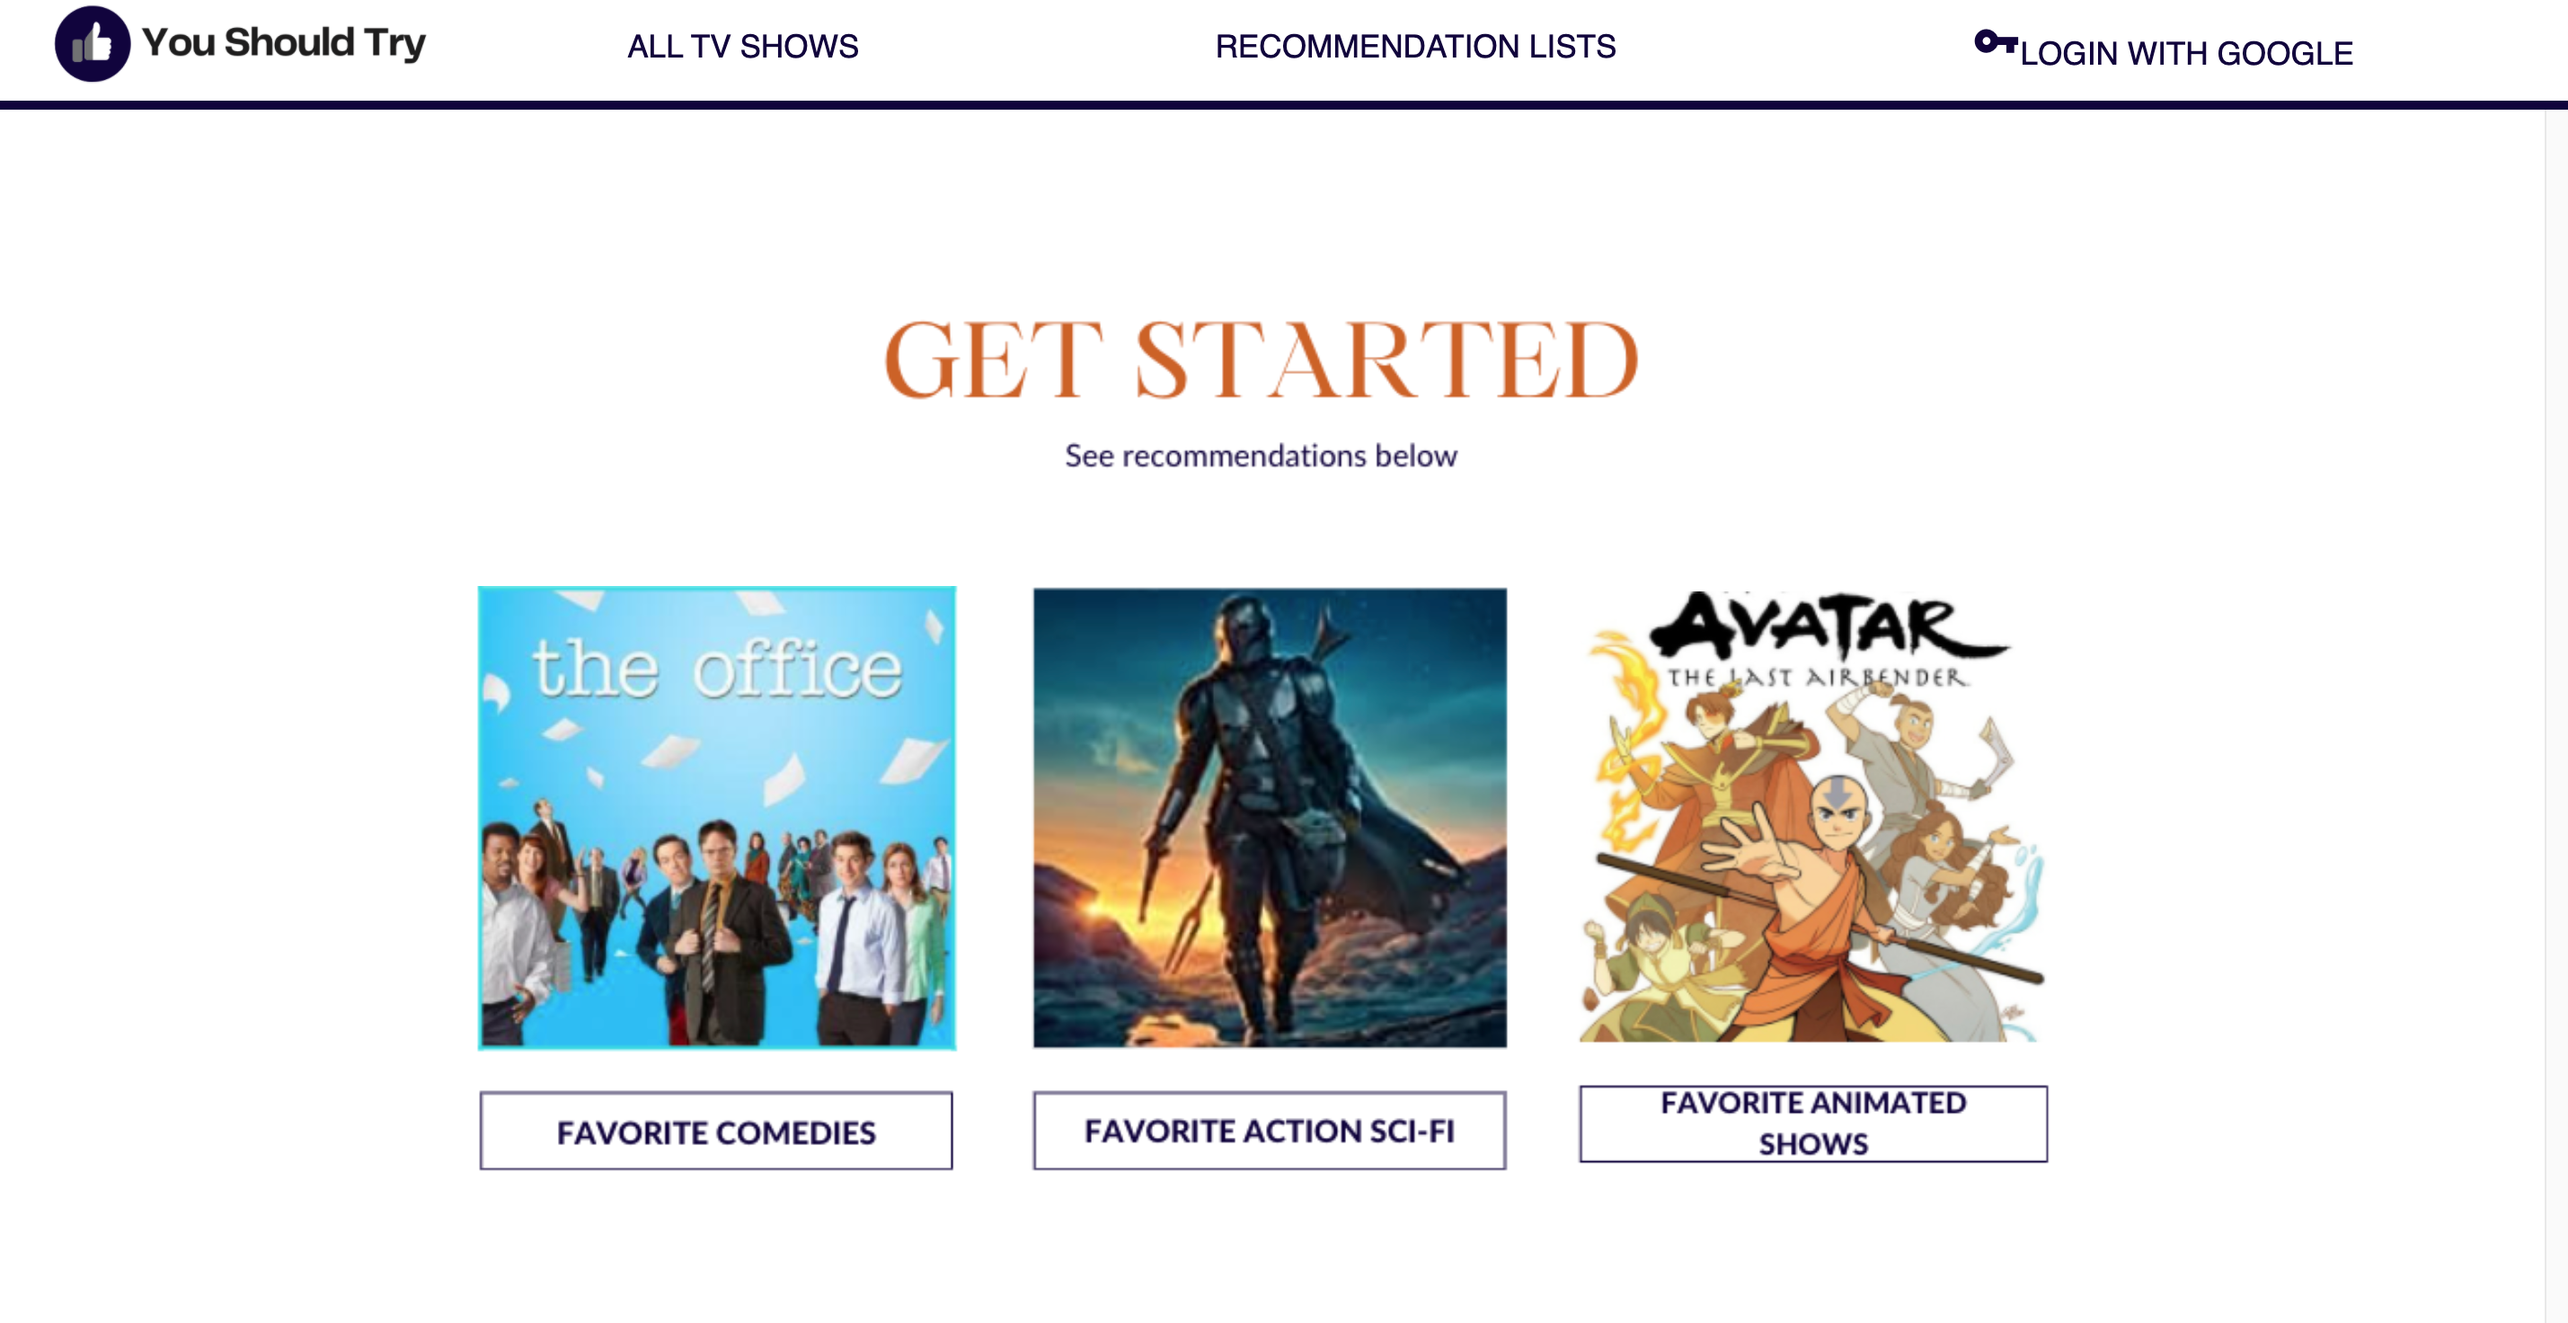
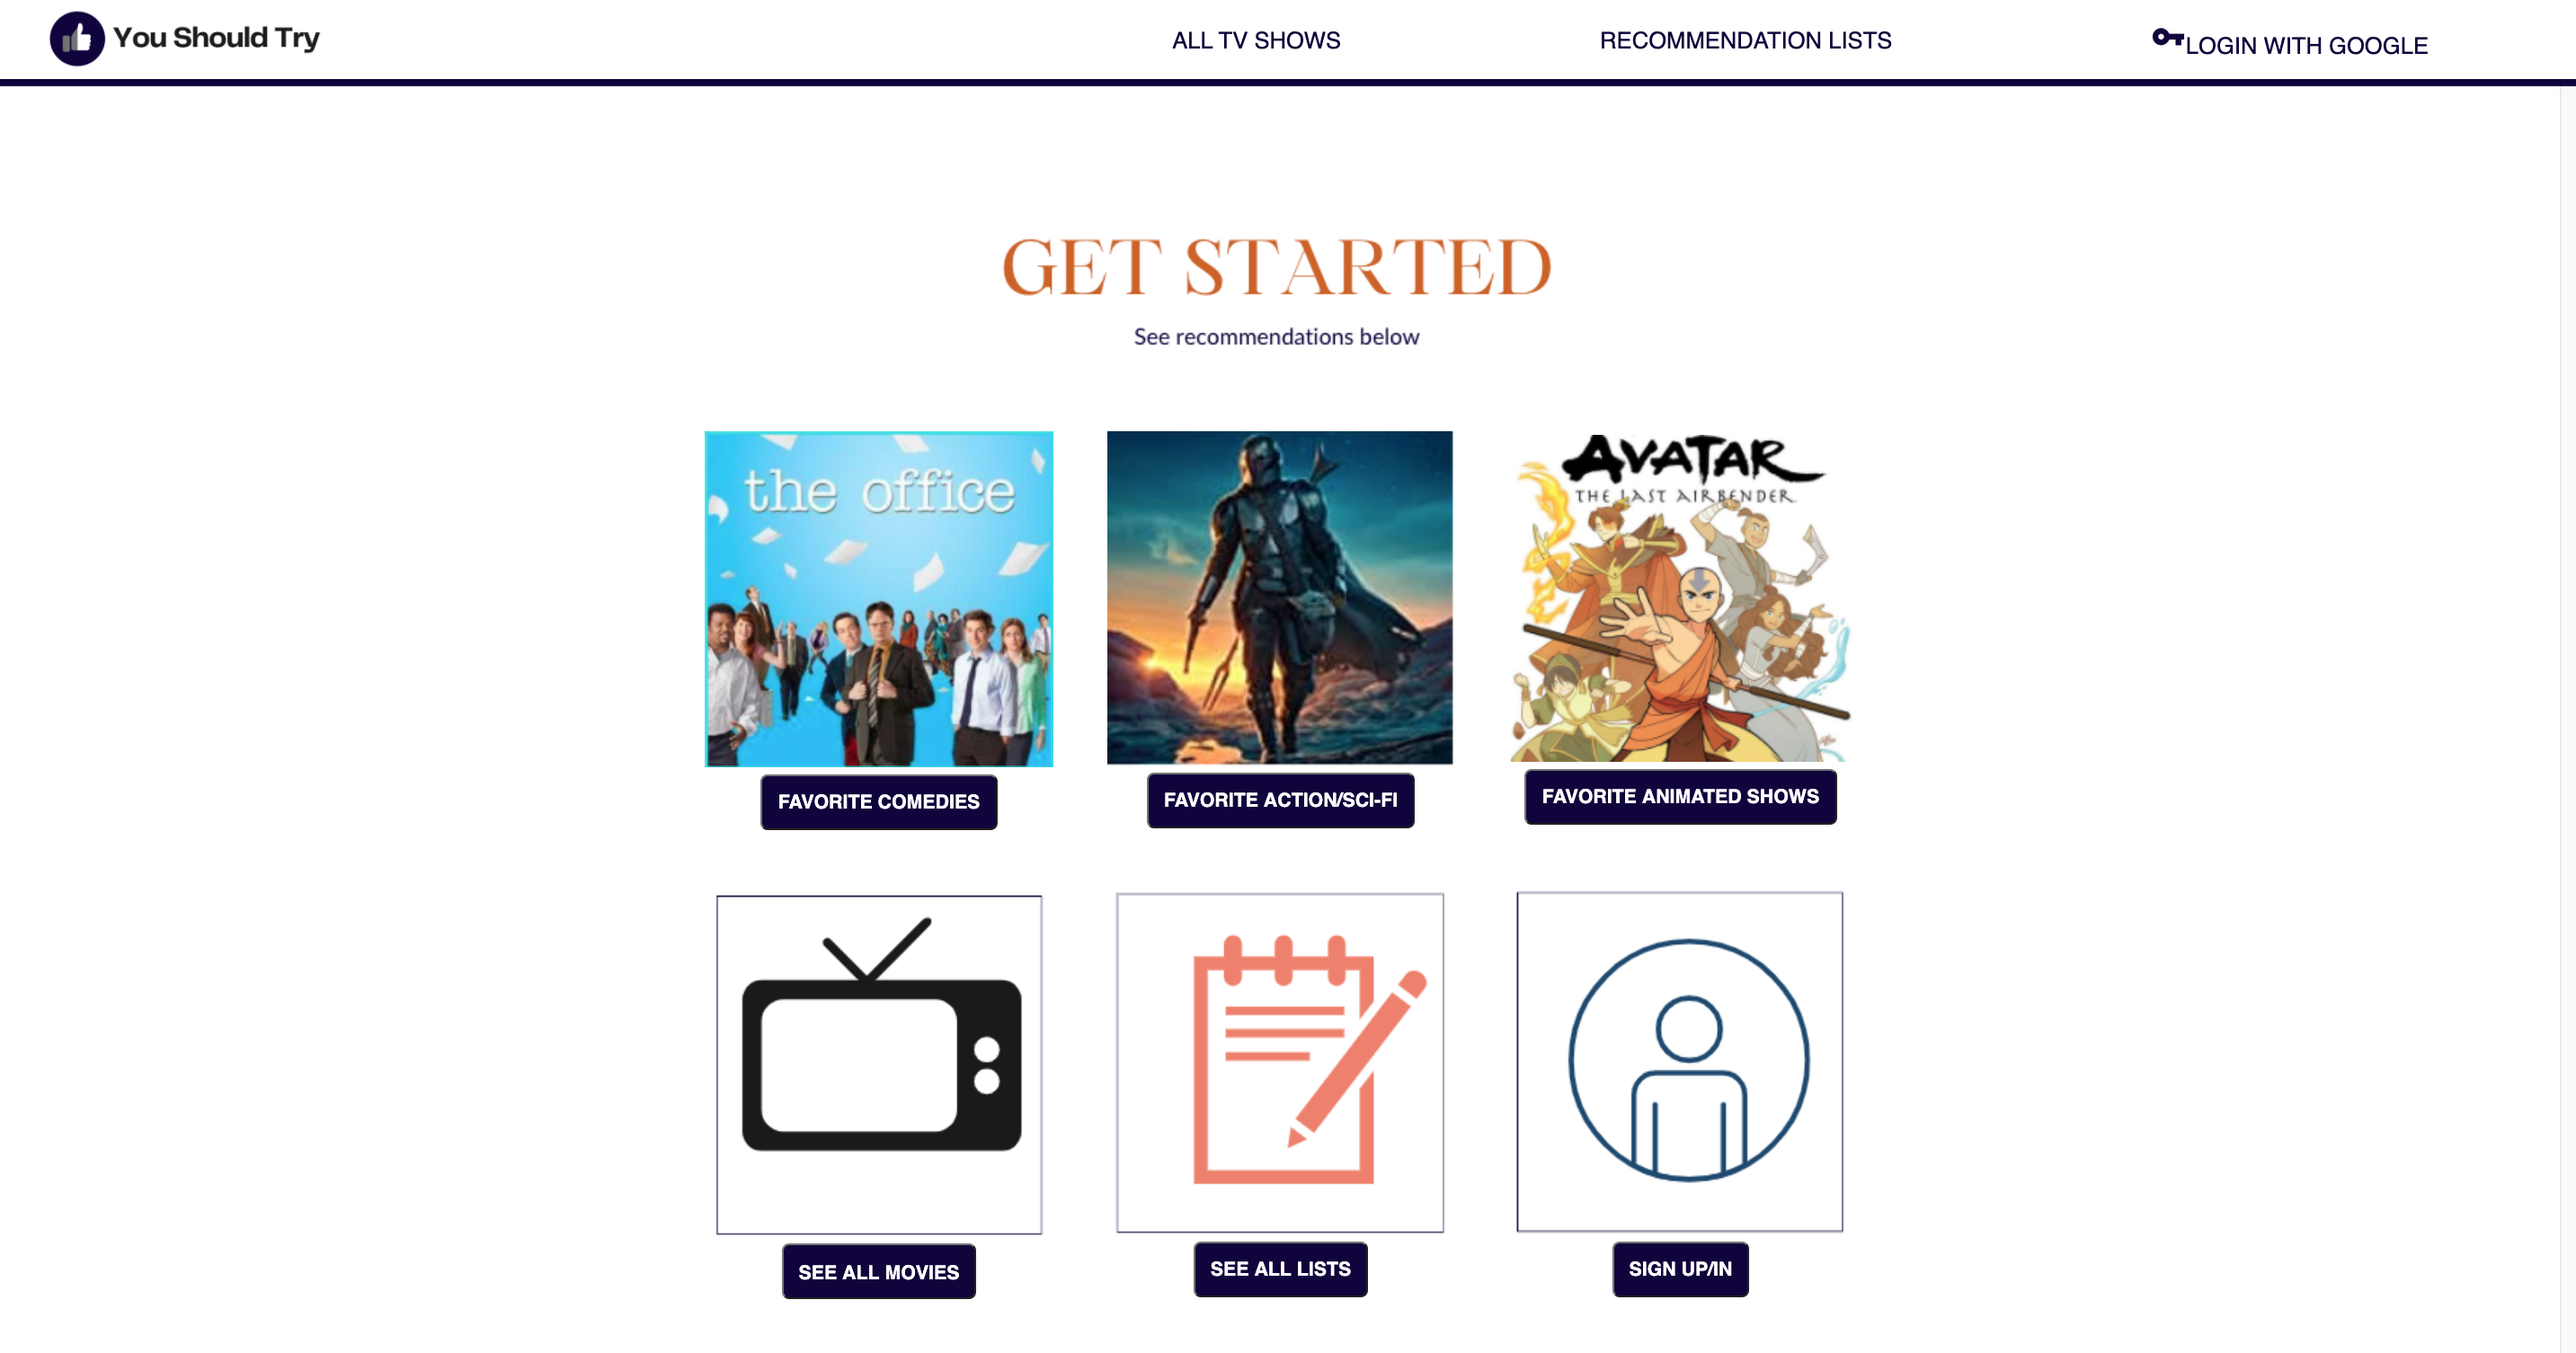
Code cleaned up, and index style updated

diff --git a/controllers/comments.js b/controllers/comments.js
@@ -21,36 +21,34 @@ function create(req, res) {
   }
 
   function update(req, res) {
-    // Note the cool "dot" syntax to query on the property of a subdoc
     Tvshow.findOne({'comments._id': req.params.id}, function(err, tvshow) {
-      // Find the comment subdoc using the id method on Mongoose arrays
+      // Finds the comment subdoc using the id method on Mongoose arrays
       // https://mongoosejs.com/docs/subdocs.html
       const commentSubdoc = tvshow.comments.id(req.params.id);
-      // Ensure that the comment was created by the logged in user
+      // Ensures that the comment was created by the logged in user
       if (!commentSubdoc.userId.equals(req.user._id)) return res.redirect(`/tvshows/${tvshow._id}`);
-      // Update the text of the comment
+      // Updates the text of the comment
       commentSubdoc.text = req.body.text;
-      // Save the updated book
+      // Saves the updated tv show
       tvshow.save(function(err) {
-        // Redirect back to the book's show view
+        // Redirects back to the tv show's show view
         res.redirect(`/tvshows/${tvshow._id}`);
       });
     });
   }
 
   function deleteOne(req, res) {
-    // Note the cool "dot" syntax to query on the property of a subdoc
     Tvshow.findOne({'comments._id': req.params.id}, function(err, tvshow) {
-      // Find the comment subdoc using the id method on Mongoose arrays
+      // Finds the comment subdoc using the id method on Mongoose arrays
       // https://mongoosejs.com/docs/subdocs.html
       const commentSubdoc = tvshow.comments.id(req.params.id);
-      // Ensure that the comment was created by the logged in user
+      // Ensures that the comment was created by the logged in user
       if (!commentSubdoc.userId.equals(req.user._id)) return res.redirect(`/tvshows/${tvshow._id}`);
-      // Remove the comment using the remove method of the subdoc
+      // Removes the comment using the remove method of the subdoc
       commentSubdoc.remove();
-      // Save the updated book
+      // Saves the updated tv show
       tvshow.save(function(err) {
-        // Redirect back to the book's show view
+        // Redirects back to the tv show's show view
         res.redirect(`/tvshows/${tvshow._id}`);
       });
     });
@@ -58,7 +56,7 @@ function create(req, res) {
 
   function edit(req, res) {
     Tvshow.findById(req.params.id, function(err, tvshow) {
-      // Verify book is "owned" by logged in user
+      // Verifies tv show is "owned" by logged in user
       if (!tvshow.user.equals(req.user._id)) return res.redirect(`/tvshows/${tvshow._id}`);
       res.render(`/tvshows/${tvshow._id}`);
     });

diff --git a/controllers/tvshows.js b/controllers/tvshows.js
@@ -11,13 +11,11 @@ module.exports = {
   edit,
   delete: deleteTvshow,
   update,
-  addWatching
 };
 
 function addToList(req, res) {
   TvshowRec.findById(req.params.id, function (err, tvshowrec) {
     tvshowrec.tvshows.push(req.body.tvshowId);
-    console.log('CHECK ME', req.body);
     tvshowrec.save(function (err) {
       res.redirect(`/tvshowrecs/${tvshowrec._id}`);
     });
@@ -26,11 +24,10 @@ function addToList(req, res) {
 
 function create(req, res) {
   const tvshow = new Tvshow(req.body);
-  // Assign the logged in user's id
+  // Assigns the logged in user's id
   tvshow.user = req.user._id;
   tvshow.save(function(err) {
     if (err) return render('tvshows/new');
-    // Probably want to go to newly added book's show view
     res.redirect(`/tvshows/${tvshow._id}`);
   });
 }
@@ -47,7 +44,6 @@ function newTvshow(req, res) {
 function show(req, res) {
   Tvshow.findById(req.params.id, function(err, tvshow) {
     TvshowRec.find({}, function(err, tvshowrecs){
-      console.log(tvshow);
       res.render('tvshows/show', { title: `${tvshow.title}`, tvshow, tvshowrecs });
     })   
   });
@@ -61,7 +57,7 @@ function index(req, res) {
 
 function edit(req, res) {
   Tvshow.findById(req.params.id, function(err, tvshow) {
-    // Verify book is "owned" by logged in user
+    // Verifies that tv show is "owned" by logged in user
     if (!tvshow.user.equals(req.user._id)) return res.redirect(`/tvshows/${tvshow._id}`);
     res.render(`tvshows/edit`, { title: 'Edit Show', tvshow});
   });
@@ -70,9 +66,9 @@ function edit(req, res) {
 function deleteTvshow(req, res) {
   Tvshow.findById(req.params.id, function(err, tvshow) {
   if (!tvshow.user.equals(req.user._id)) return res.redirect(`/tvshows/${tvshow._id}`);
-  tvshow.remove();
-  tvshow.save(function(err){
-    res.redirect('/tvshows');
+    tvshow.remove();
+    tvshow.save(function(err){
+      res.redirect('/tvshows');
     })
   })
 }
@@ -91,16 +87,3 @@ function update(req, res) {
     });
   });  
 }
-
-function addWatching(req, res) {
-  Tvshow.findById(req.params.id, function(err, tvshow) {
-    // Ensure that user is not already in usersReading
-    // See "Finding a Subdocument" in https://mongoosejs.com/docs/subdocs.html
-    if (tvshow.usersWatching.id(req.user._id)) return res.redirect('/tvshows');
-    tvshow.usersWatching.push(req.user._id);
-    tvshow.save(function(err) {
-      res.redirect(`/tvshows/${tvshow._id}`);
-    });
-  });
-}
-

diff --git a/public/stylesheets/style.css b/public/stylesheets/style.css
@@ -79,14 +79,6 @@ color: rgb(224, 82, 0);
   grid-template-columns: repeat(2, minmax(auto, 22rem));
 }
 
-#new-form *,
-#add-review-form *,
-#add-performer-form * {
-  font-size: 20px;
-  padding: 5px;
-  border-radius: 5px;
-}
-
 #new-form input[type="submit"] {
   grid-column: span 2;
   width: 10rem;
@@ -131,15 +123,18 @@ table.profile {
   text-align: left;
   border-collapse: collapse;
 }
+
 table.profile td, table.profile th {
   border: 1px solid #AAAAAA;
   padding: 3px 2px 5px 5px;
 }
+
 table.profile tbody td {
   font-size: 18px;
   font-weight: bold;
   text-align: left
 }
+
 table.profile td:nth-child(odd) {
   background: #D0E4F5;
 }
@@ -172,7 +167,6 @@ table.profile td:nth-child(odd) {
   grid-gap: 1rem;
 }
 
-
 #show-page div:nth-child(even) {
   font-weight: bold;
 }
@@ -182,20 +176,6 @@ img.showimage {
   width: 250px;
   height: auto;
   margin: auto;
-}
-
-#add-review-form,
-#add-performer-form {
-  display: grid;
-  grid-template-columns: auto auto;
-  grid-gap: 1rem;
-  margin-bottom: 2rem;
-}
-
-#add-review-form input[type="submit"],
-#add-performer-form input[type="submit"] {
-  width: 10rem;
-  grid-column: 2 / 3;
 }
 
 ul {
@@ -218,7 +198,7 @@ li {
   font-weight: bold;
 }
 
-/* Dropdown Button */
+/* Dropdown Buttons */
 .dropbtn-tv {
   text-decoration: none;
   padding: 20px 50px 20px 50px;
@@ -307,7 +287,6 @@ li {
   font-size: 15px;
 }
 
-
 /* Links inside the dropdown */
 .dropdown-content-tv a {
   color: black;
@@ -336,7 +315,6 @@ li {
   border-width: 1px;
 }
 
-
 /* Change color of dropdown links on hover */
 .dropdown-content-tv a:hover {
   color: white;
@@ -356,25 +334,21 @@ li {
   cursor: pointer;
 }
 
-
 /* Show the dropdown menu on hover */
 .dropdown-tv:hover .dropdown-content-tv {
   display: block;
   cursor: pointer;
 }
 
-
 .dropdown-profile:hover .dropdown-content-profile {
   display: block;
   cursor: pointer;
 }
 
-
 .dropdown-lists:hover .dropdown-content-lists {
   display: block;
   cursor: pointer;
 }
-
 
 /* Change the background color of the dropdown button when the dropdown content is shown */
 .dropdown-tv:hover .dropbtn-tv {
@@ -420,4 +394,9 @@ button.form {
 .tvheader {
   background-color: rgb(168, 188, 207);
   color: white
+}
+
+#index {
+  text-align: center;
+  margin: 0 0 0 0;
 }

diff --git a/controllers/tvshowrecs.js b/controllers/tvshowrecs.js
@@ -20,7 +20,6 @@ function create(req, res){
   tvshowRec.user = req.user._id;
   tvshowRec.save(function(err){
     if(err) return res.render('tvshowrecs/new');
-    console.log(tvshowRec)
     res.redirect(`/tvshowrecs/${tvshowRec._id}`);
   })
 }
@@ -31,17 +30,17 @@ function show(req, res) {
             {_id: {$nin: tvshowrec.tvshows}},
             function(err, tvshows) {
                 res.render('tvshowrecs/show', { title: `${tvshowrec.title}`, tvshowrec, tvshows });
-            });
-            }
-        )
+        });
+      }
+    )
 }
 
 function deleteTvShowRec(req, res) {
   TvshowRec.findById(req.params.id, function(err, tvshowrec) {
   if (!tvshowrec.user.equals(req.user._id)) return res.redirect(`/tvshowrecs/${tvshowrec._id}`);
-  tvshowrec.remove();
-  tvshowrec.save(function(err){
-    res.redirect('tvshowsrecs');
+    tvshowrec.remove();
+    tvshowrec.save(function(err){
+      res.redirect('tvshowsrecs');
     })
   })
 }
@@ -54,9 +53,9 @@ function index(req,res){
 
 function edit(req, res) {
   TvshowRec.findById(req.params.id, function(err, tvshowrec) {
-    // Verify book is "owned" by logged in user
+    // Verifies tv show is "owned" by logged in user
     if (!tvshowrec.user.equals(req.user._id)) return res.redirect(`/tvshowrecs/${tvshowrec._id}`);
-    res.render(`tvshowrecs/edit`, { title: 'Edit List Details', tvshowrec});
+      res.render(`tvshowrecs/edit`, { title: 'Edit List Details', tvshowrec});
   });
 }
 

diff --git a/controllers/user.js b/controllers/user.js
@@ -1,5 +1,4 @@
 const User = require('../models/user');
-const TvShow = require('../models/tvshow');
 
 module.exports = {
     index,
@@ -8,17 +7,11 @@ module.exports = {
     };
 
   function index(req, res, next) {
-    console.log(req.query)
-    // Make the query object to use with Student.find based up
-    // the viewer has submitted the search form or now
     let modelQuery = req.query.name ? {name: new RegExp(req.query.name, 'i')} : {};
-    // Default to sorting by name
     let sortKey = req.query.sort || 'name';
     User.find(modelQuery)
     .sort(sortKey).exec(function(err, user) {
-      console.log(user)
       if (err) return next(err);
-      // Passing search values, name & sortKey, for use in the EJS
       res.render('user/index', {
         title: 'Profile',
         user,

diff --git a/routes/tvshows.js b/routes/tvshows.js
@@ -2,7 +2,6 @@ const express = require('express');
 const router = express.Router();
 const tvshowsCtrl = require('../controllers/tvshows');
 	
-// GET /tvshows/new
 router.get('/tvshows/', tvshowsCtrl.index);
 router.get('/tvshows/new', tvshowsCtrl.new);
 router.get('/tvshows/:id', tvshowsCtrl.show);
@@ -11,6 +10,5 @@ router.delete('/tvshows/:id', tvshowsCtrl.delete);
 router.get('/tvshows/:id/edit', tvshowsCtrl.edit);
 router.put('/tvshows/:id', tvshowsCtrl.update);
 router.post('/tvshowrecs/:id/tvshows', tvshowsCtrl.addToList);
-router.post('/tvshows/:id/', tvshowsCtrl.addWatching);
 
 module.exports = router;

diff --git a/routes/index.js b/routes/index.js
@@ -5,7 +5,6 @@ const request = require('request');
 const key = process.env.TMDB_KEY;
 const rootURL = 'https://api.thetvshowdb.org';
 
-// The root route renders our only view
 router.get('/', function(req, res, next) {
   const genreName = req.query.name;
   request(`${rootURL}/3/genre/tvshow/list?api_key=${key}&language=en-US`, 
@@ -13,8 +12,6 @@ router.get('/', function(req, res, next) {
     console.log(body)
     res.render('index', {title: ' ', tvshowData: body})
   })
-
-
 });
 
 // Google OAuth login route

diff --git a/routes/tvshowrecs.js b/routes/tvshowrecs.js
@@ -1,8 +1,7 @@
 const express = require('express');
 const router = express.Router();
 const tvshowrecsCtrl = require('../controllers/tvshowrecs');
-	
-// GET /tvshows/new
+
 router.get('/new', tvshowrecsCtrl.new);
 router.post('/', tvshowrecsCtrl.create);
 router.get('/', tvshowrecsCtrl.index);

diff --git a/routes/user.js b/routes/user.js
@@ -6,7 +6,6 @@ router.get('/', userCtrl.index);
 router.post('/facts', isLoggedIn, userCtrl.addFact);
 router.delete('/facts/:id', isLoggedIn, userCtrl.delFact);
 
-
 function isLoggedIn(req, res, next) {
   if ( req.isAuthenticated() ) return next();
   res.redirect('/auth/google');

diff --git a/models/user.js b/models/user.js
@@ -4,10 +4,8 @@ const userSchema = new mongoose.Schema({
     name: String,
     username: String,
     email: String,
-    tvshowlists: [],
-    moviesAdded:[],
     avatar: String,
-    googleId: String,
+    googleId: String
   }, {
     timestamps: true
   });

diff --git a/README.md b/README.md
@@ -53,7 +53,7 @@ You can create a recommendation list for any category. You add a title and a des
         * Project To Do List
         * Original wireframes for the project
         * Bugs to fix
-     * Ice Box 
+        * Ice Box 
 
 # Next Steps
 
